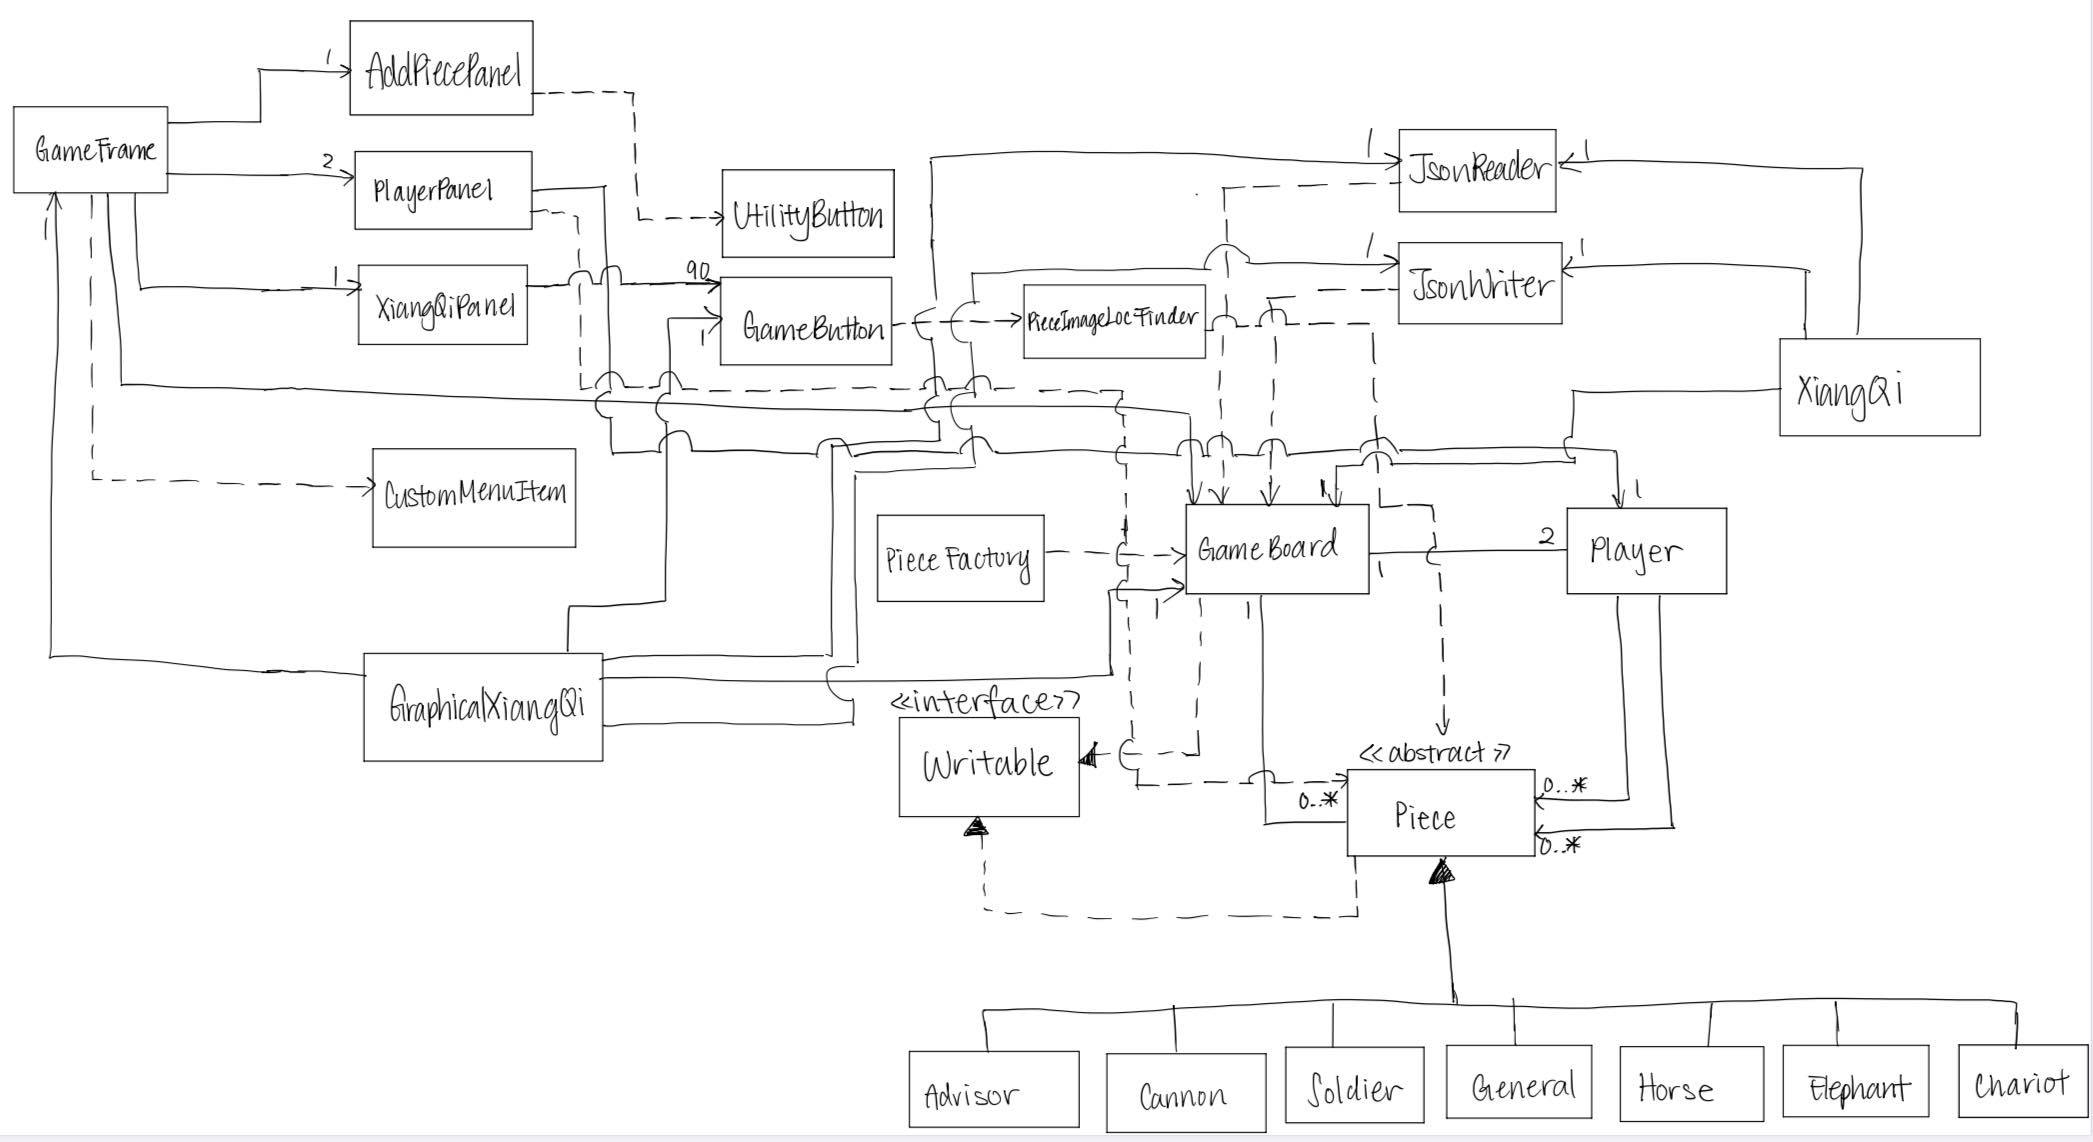
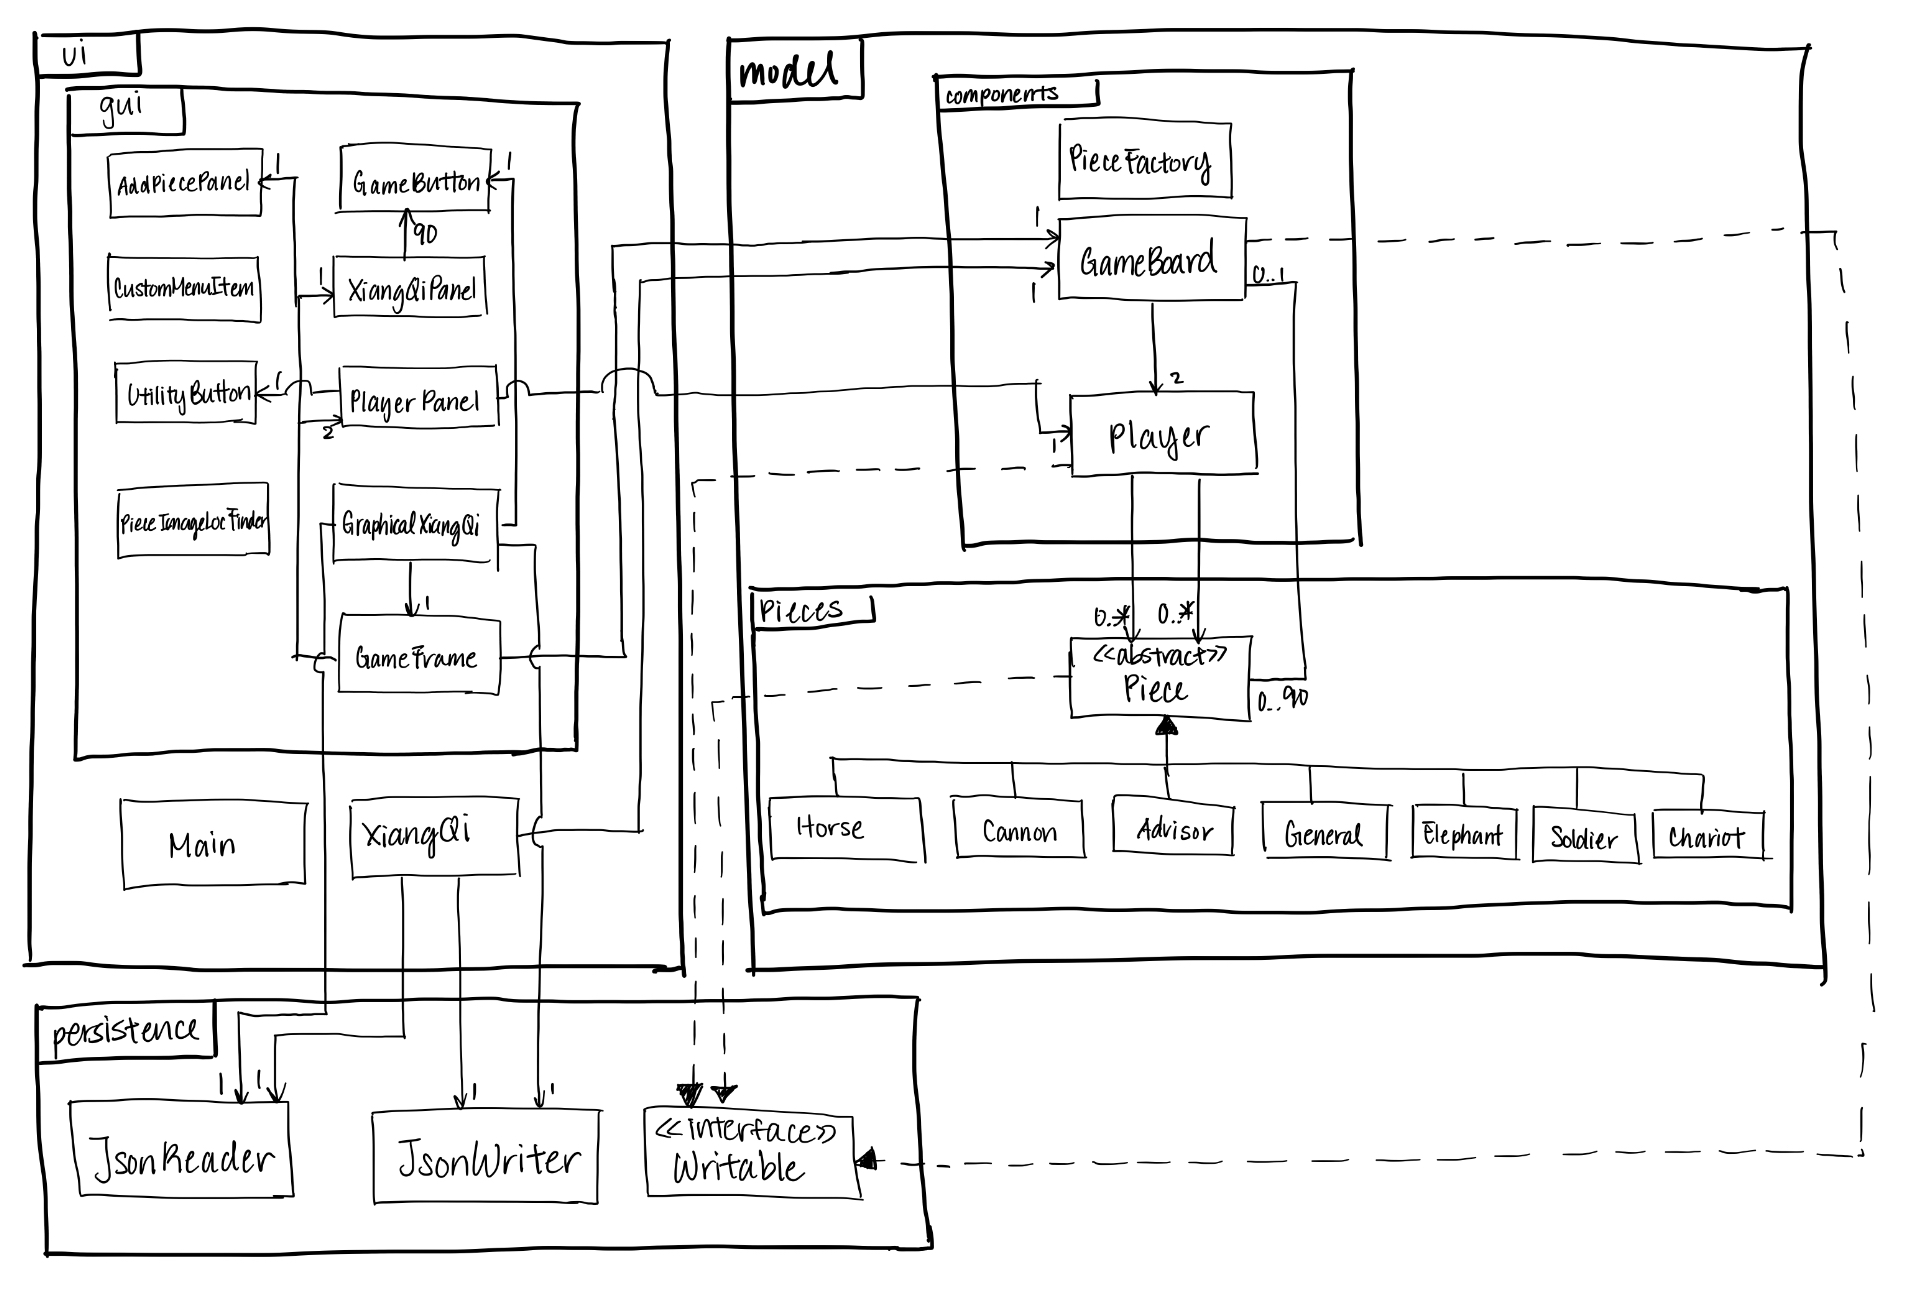
phase 4: task 3

diff --git a/src/main/ui/gui/PlayerPanel.java b/src/main/ui/gui/PlayerPanel.java
@@ -15,7 +15,7 @@ public class PlayerPanel extends JPanel {
     private Player player;
     private final Color colour;
     private JLabel playerLabel;
-    private JButton unselectButton;
+    private UtilityButton unselectButton;
     JPanel capturedPieces;
 
     public static final int HEIGHT = 100;
